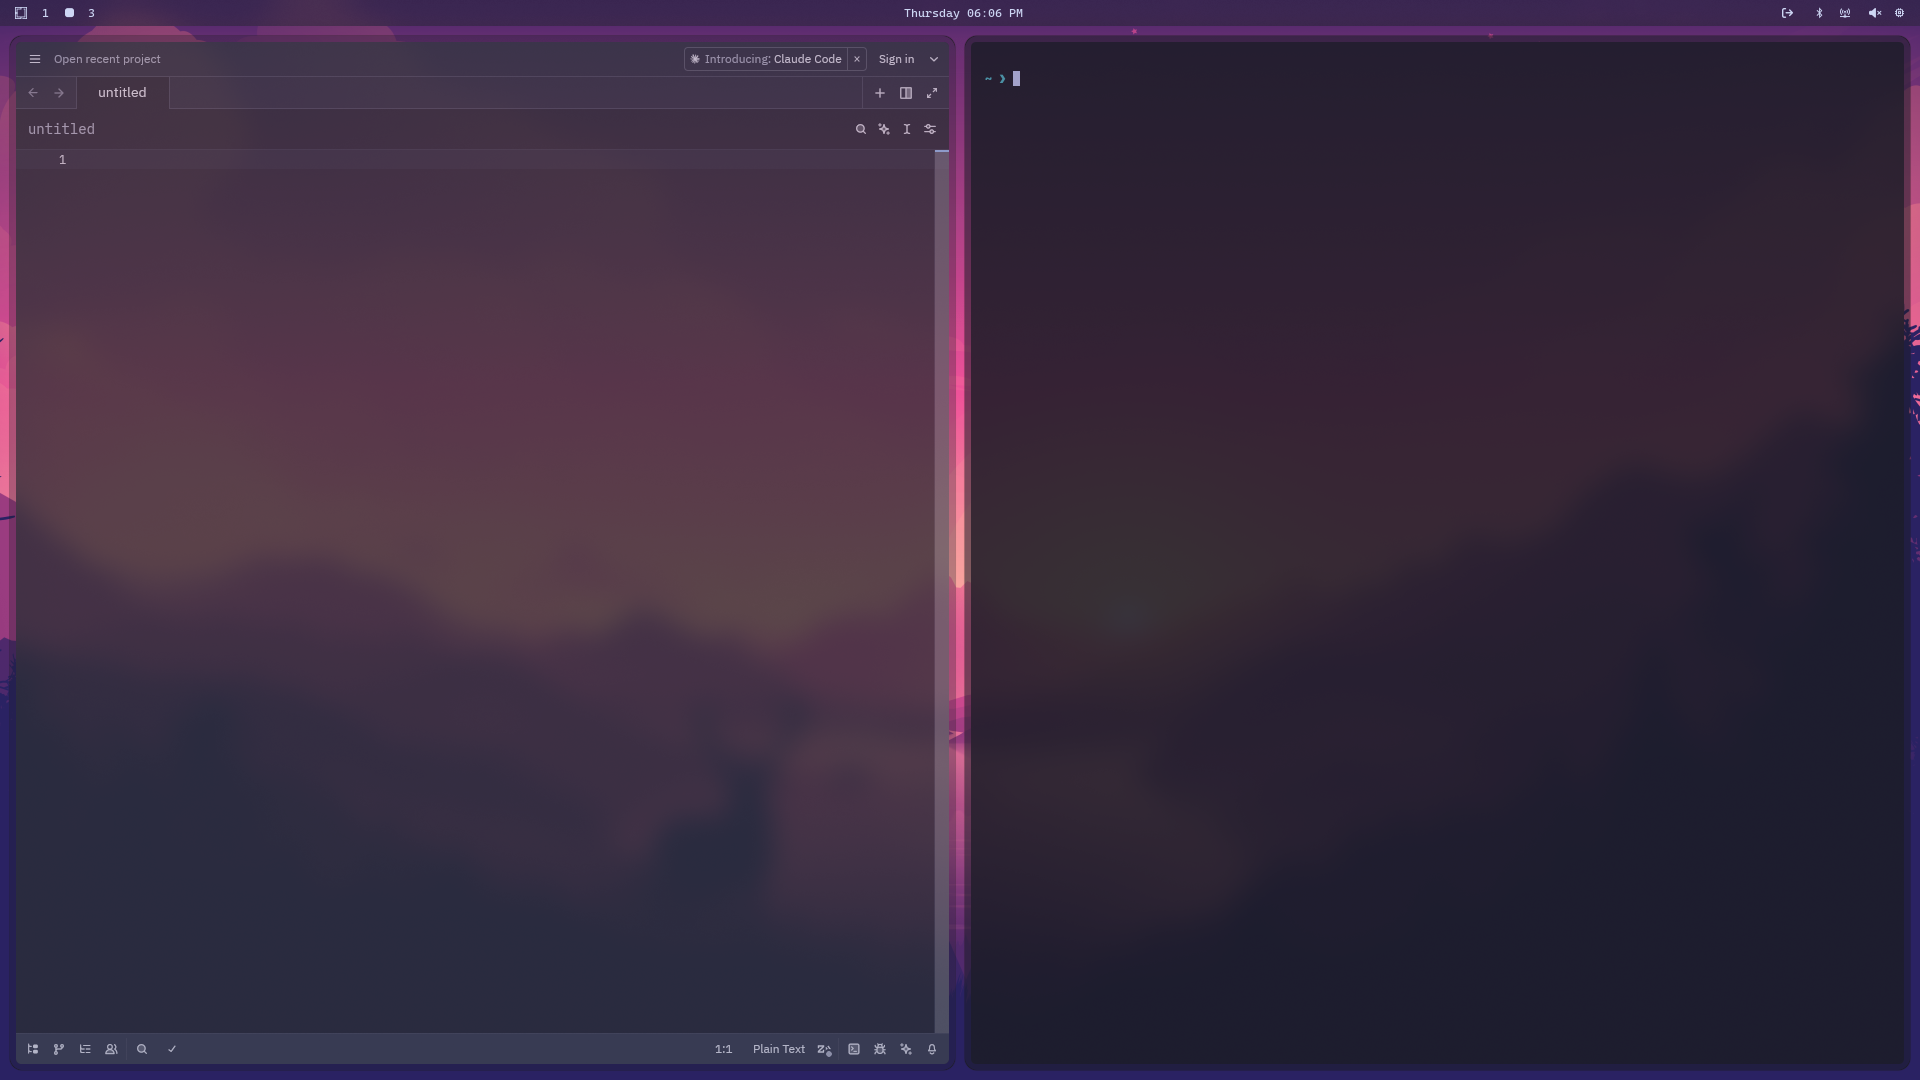
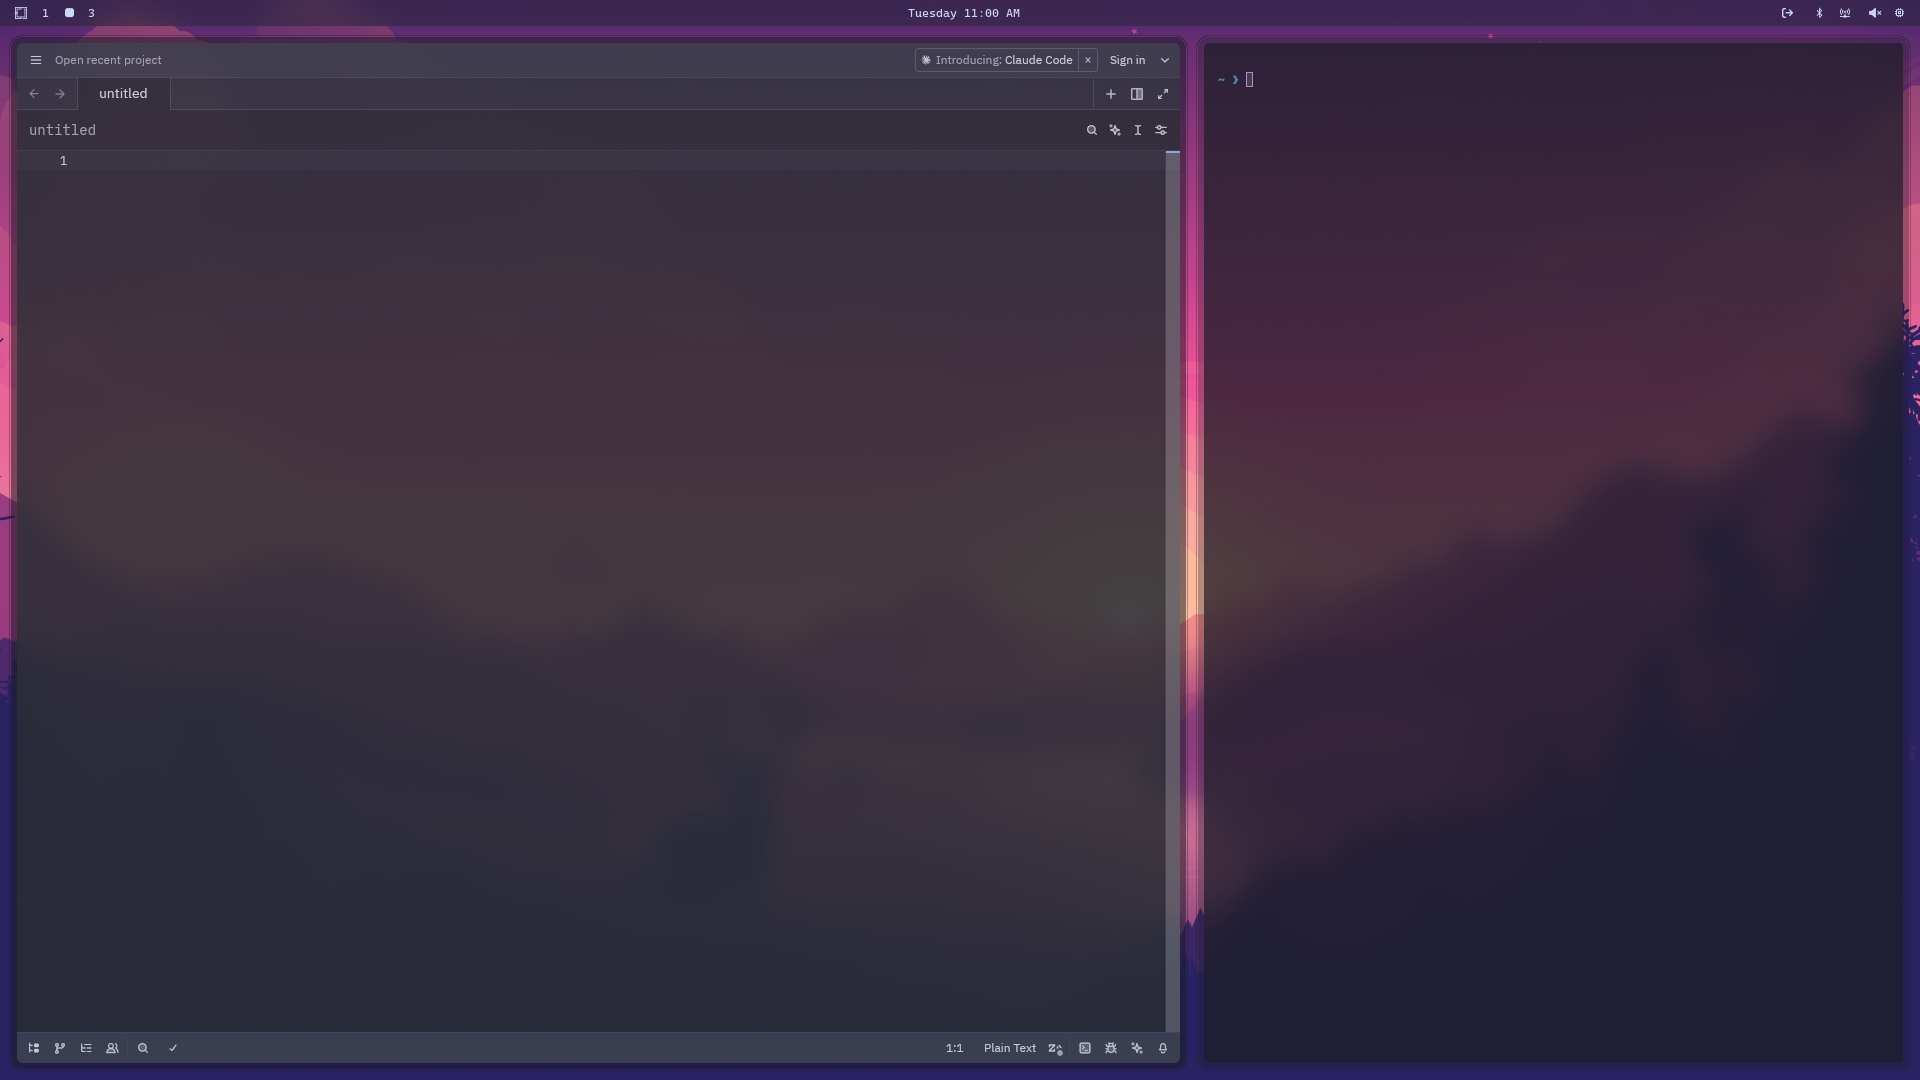
add better borders with borders-plus-plus plugin, update preview

diff --git a/README.md b/README.md
@@ -4,7 +4,6 @@
 Tokyo Glass is a modified Tokyo Night theme that adds the following features:
 - glass waybar
 - rounded glass window borders
-- rounded glass walker style
 - glass hyprlock style (must add rounding yourself due to theme limitations)
 ```
 
@@ -13,6 +12,14 @@ Tokyo Glass is a modified Tokyo Night theme that adds the following features:
 ```bash
 omarchy-theme-install https://github.com/coreydemarse/omarchy-tokyo-glass-theme
 ```
+
+# Better Borders
+
+Enable the `borders-plus-plus` plugin for even better looking borders with this theme.
+
+`hyprpm add https://github.com/hyprwm/hyprland-plugins`
+`hyprpm update`
+`hyprpm enable borders-plus-plus`
 
 ## Preview
 
